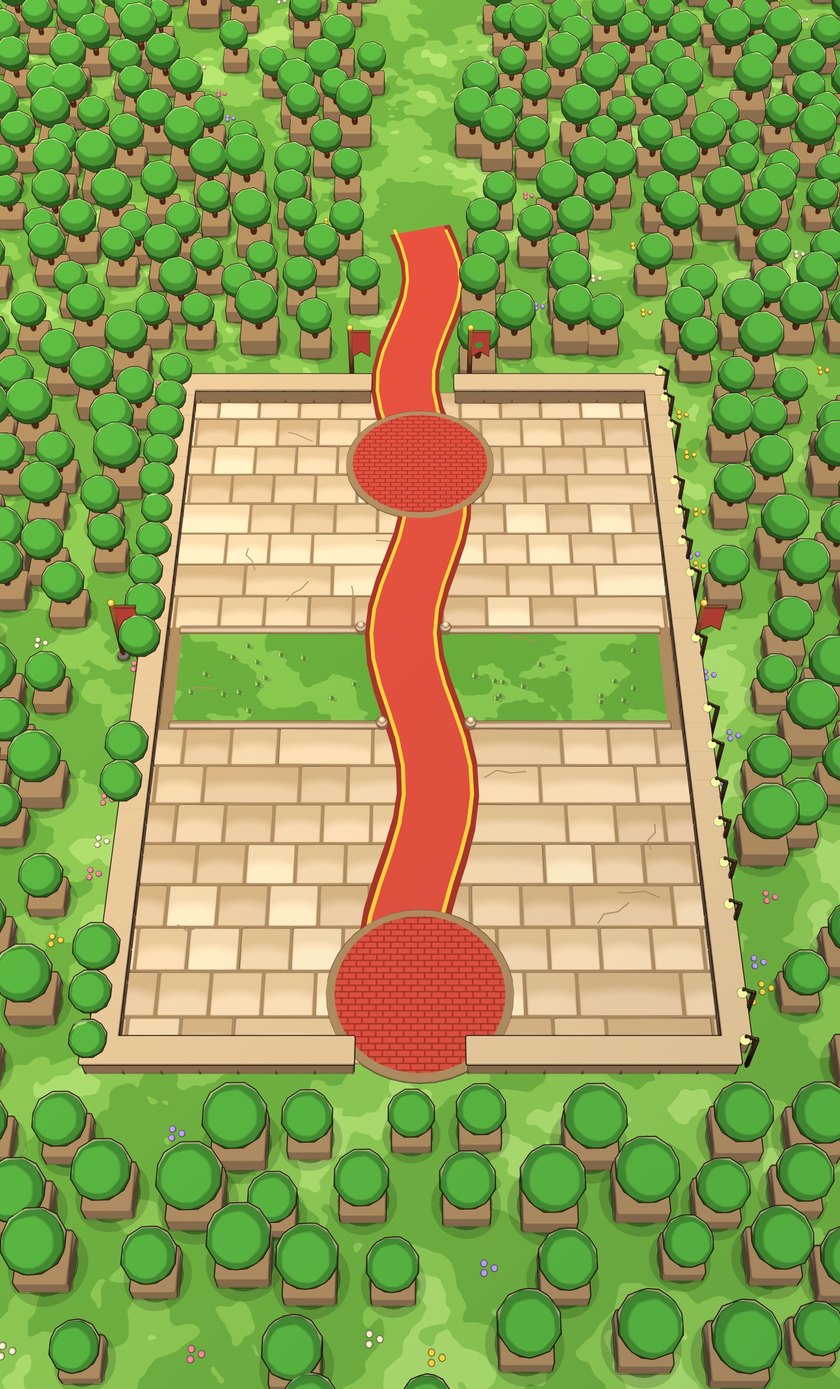
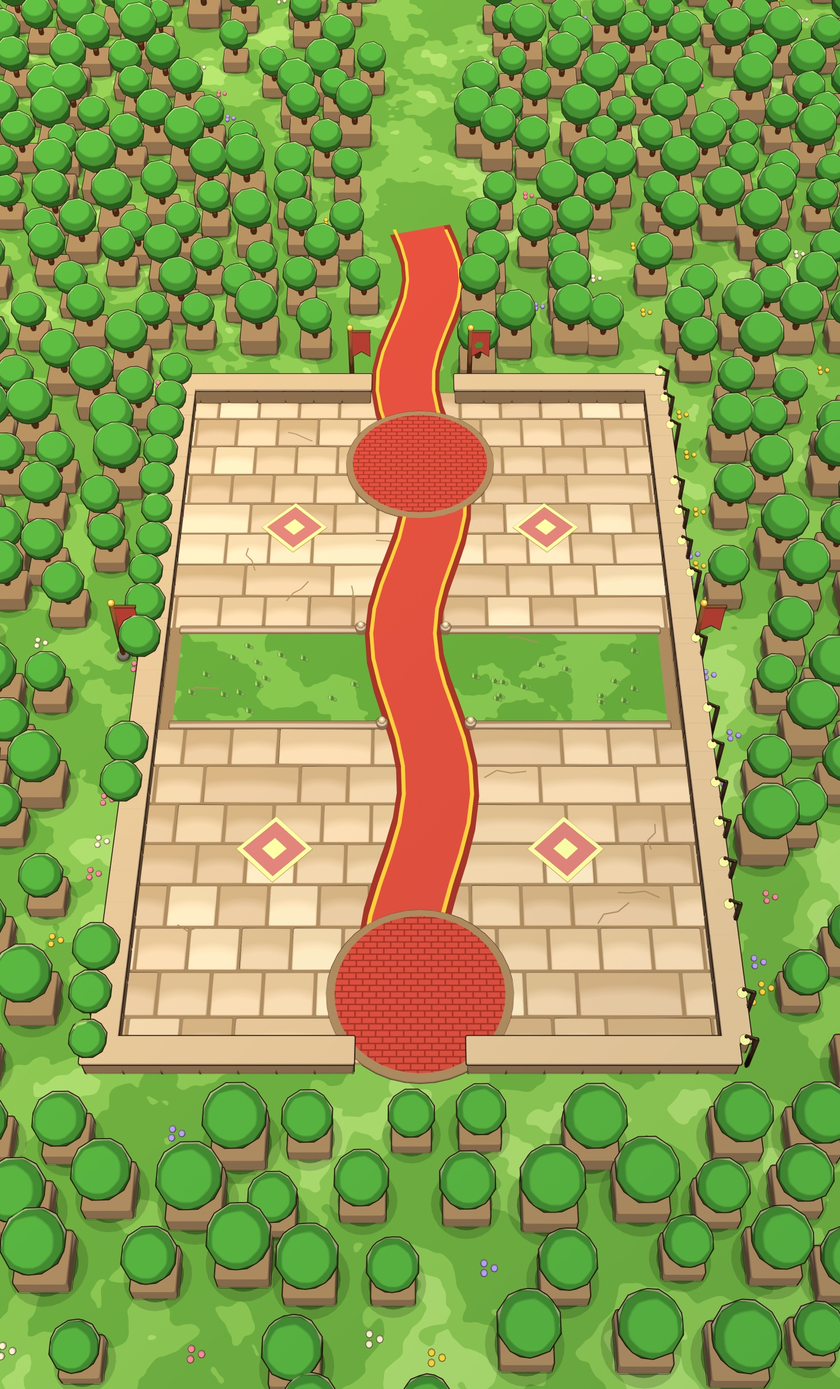
Arenas: High Keep heraldic lozenges in each zone; re-shot Act 5 and the contact sheet

diff --git a/art/arenas/render_arenas.py b/art/arenas/render_arenas.py
@@ -64,7 +64,7 @@ ACTS = {
     5: dict(name="High Keep", g=dict(grass="#8cc45e", grass_dk="#70ad4b", grass_lt="#a9d878", path="#cf5446", path_dk="#9c3a30",
                                      strip="#86c25a", strip_dk="#6aa947", court="#dcc6a0", court_dk="#a88d68"),
             court=True, strip_pat="patches", border="wall", trees=("topiary",), scatter="flowers", obstacle="pillar",
-            relief="flagstones", stones=("#dcc6a0", "#e7d6b3", "#ccb38b", "#d5bf98"), trim="#ffcf4d",
+            relief="flagstones", stones=("#dcc6a0", "#e7d6b3", "#ccb38b", "#d5bf98"), trim="#ffcf4d", lozenges="#b8463a",
             dress=dict(clumps="flowers", n_clumps=0, cracks=18, banners=("#cf5446", "#ffcf4d")), fg="topiary"),
     6: dict(name="Frozen Reach", g=dict(grass="#eef5fb", grass_dk="#d3e2ef", grass_lt="#ffffff", path="#c5d7e8", path_dk="#9fb7cf",
                                         strip="#dbe7f2", strip_dk="#b9cde0", foliage="#3f8f6a", foliage_dk="#2b6b52", rock="#a9b4c2", rock_dk="#76828f",
@@ -506,6 +506,13 @@ def main():
                         wk.box((0.16, zy1 - zy0, 0.012), lap, loc=B(xx, (zy0 + zy1) / 2, 0.062), outline=0.004)
                         for dx in (-0.12, 0.12):
                             wk.box((0.035, zy1 - zy0, 0.012), gold, loc=B(xx + dx, (zy0 + zy1) / 2, 0.064), outline=0)
+            if th.get("lozenges"):
+                # High Keep: heraldic lozenges of red stone in gold frames, set into the courtyard of each zone.
+                red, gold = K.toon(th["lozenges"], spec=0.25), K.toon(th["trim"], spec=0.5)
+                for (rx, ry) in ((2.0, 3.3), (7.0, 3.3), (2.0, H - 3.3), (7.0, H - 3.3)):
+                    wk.box((0.92, 0.92, 0.012), gold, loc=B(rx, ry, 0.062), rot=(0, 0, 45), outline=0.004)
+                    wk.box((0.76, 0.76, 0.014), red, loc=B(rx, ry, 0.066), rot=(0, 0, 45), outline=0.004)
+                    wk.box((0.3, 0.3, 0.016), gold, loc=B(rx, ry, 0.07), rot=(0, 0, 45), outline=0.003)
             if ds.get("banners"):
                 for (bx, by) in ((3.05, -0.85), (5.55, -0.85), (-1.05, ZD + 0.6), (W + 0.6, ZD + 0.6)):  # flanking the far gate and the strip
                     banner(bx, by, ds["banners"])
